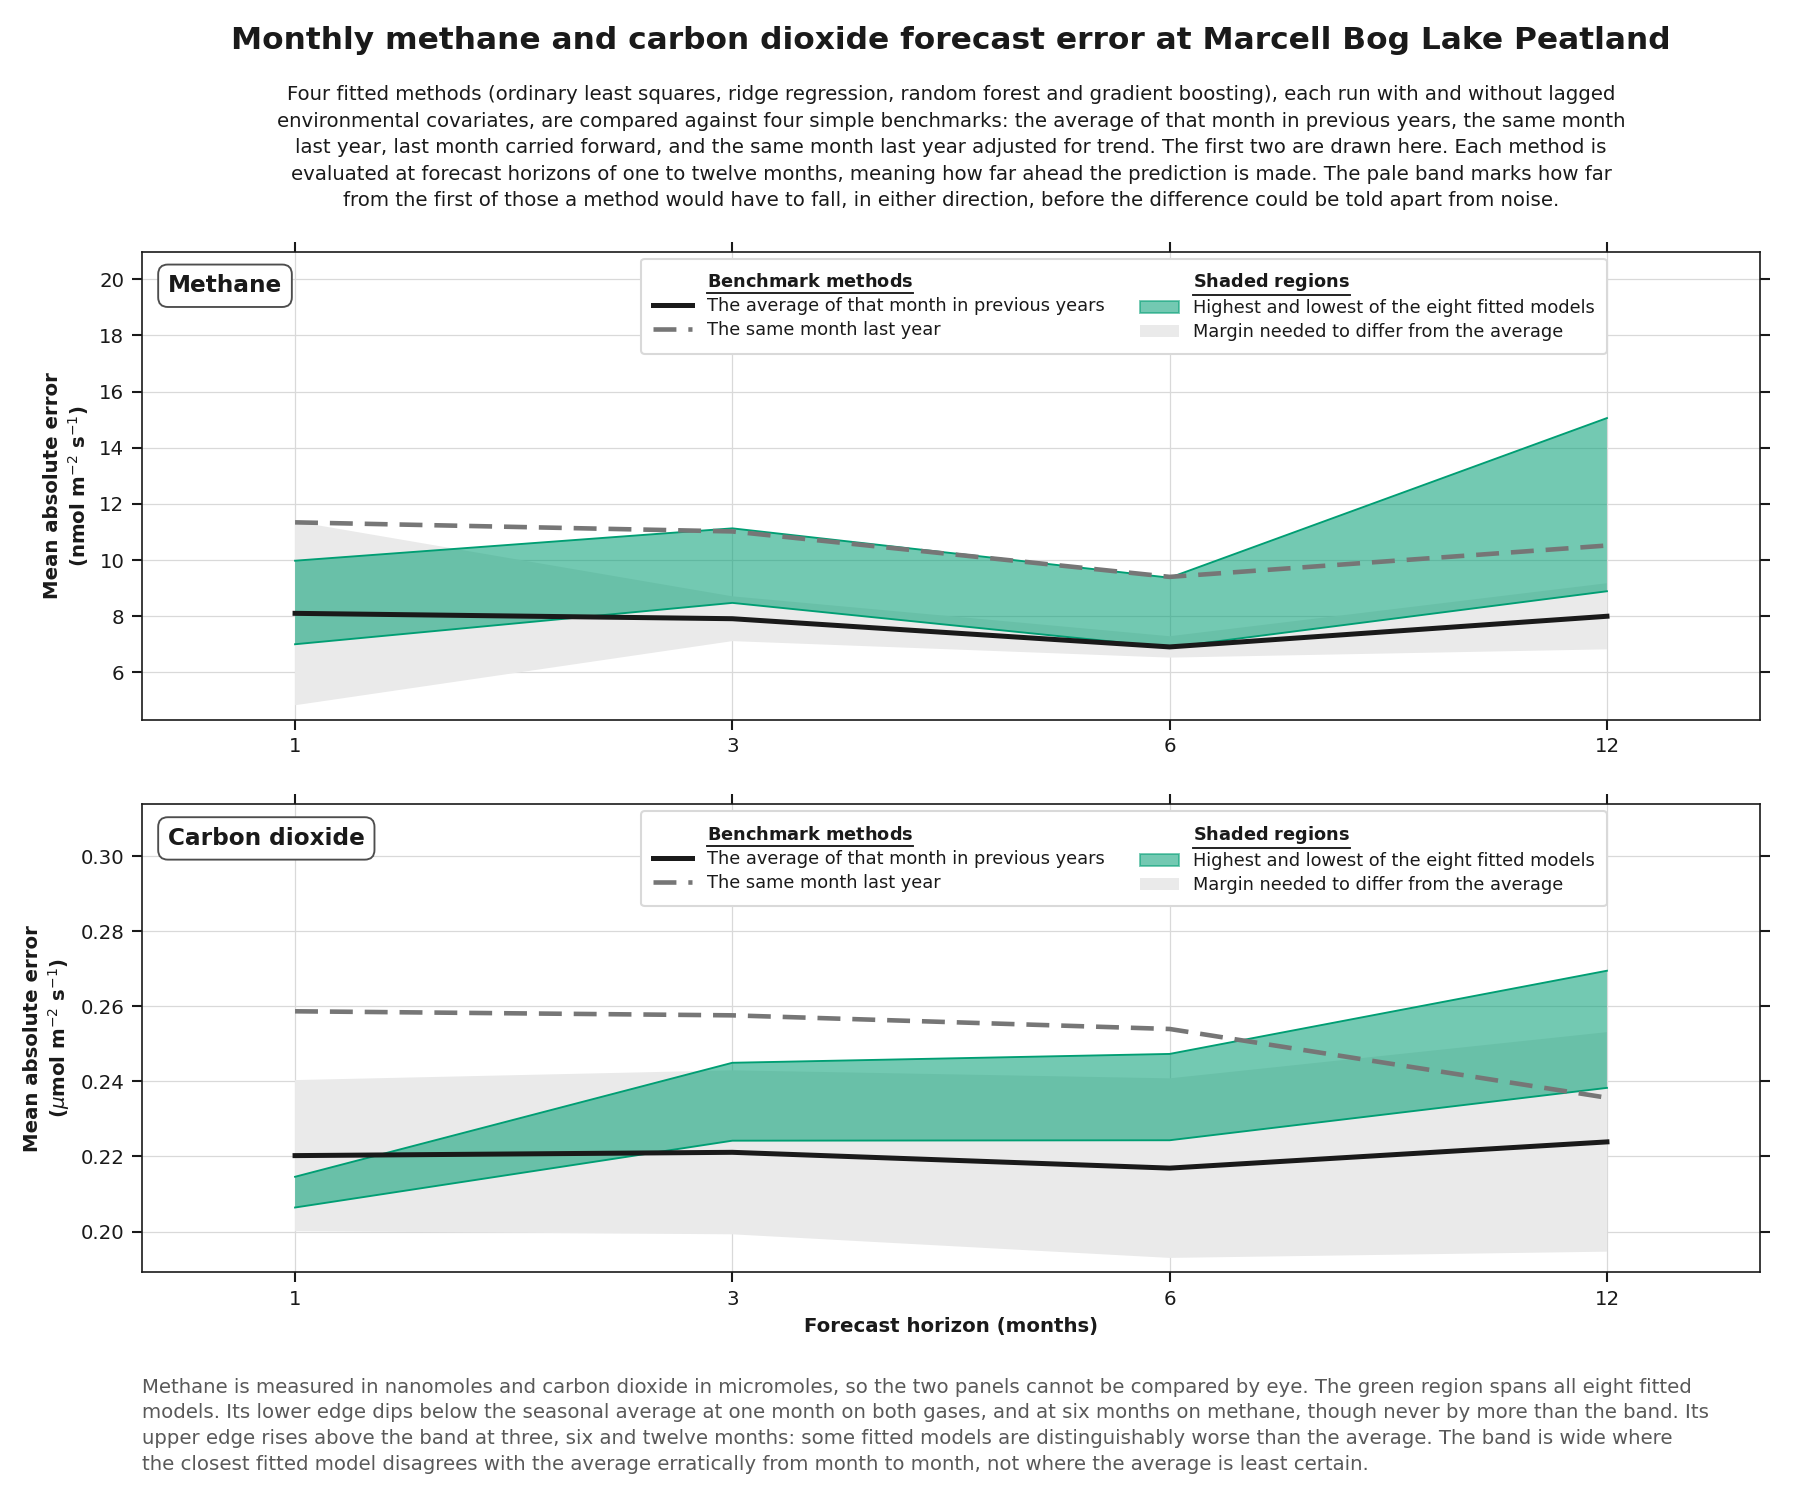
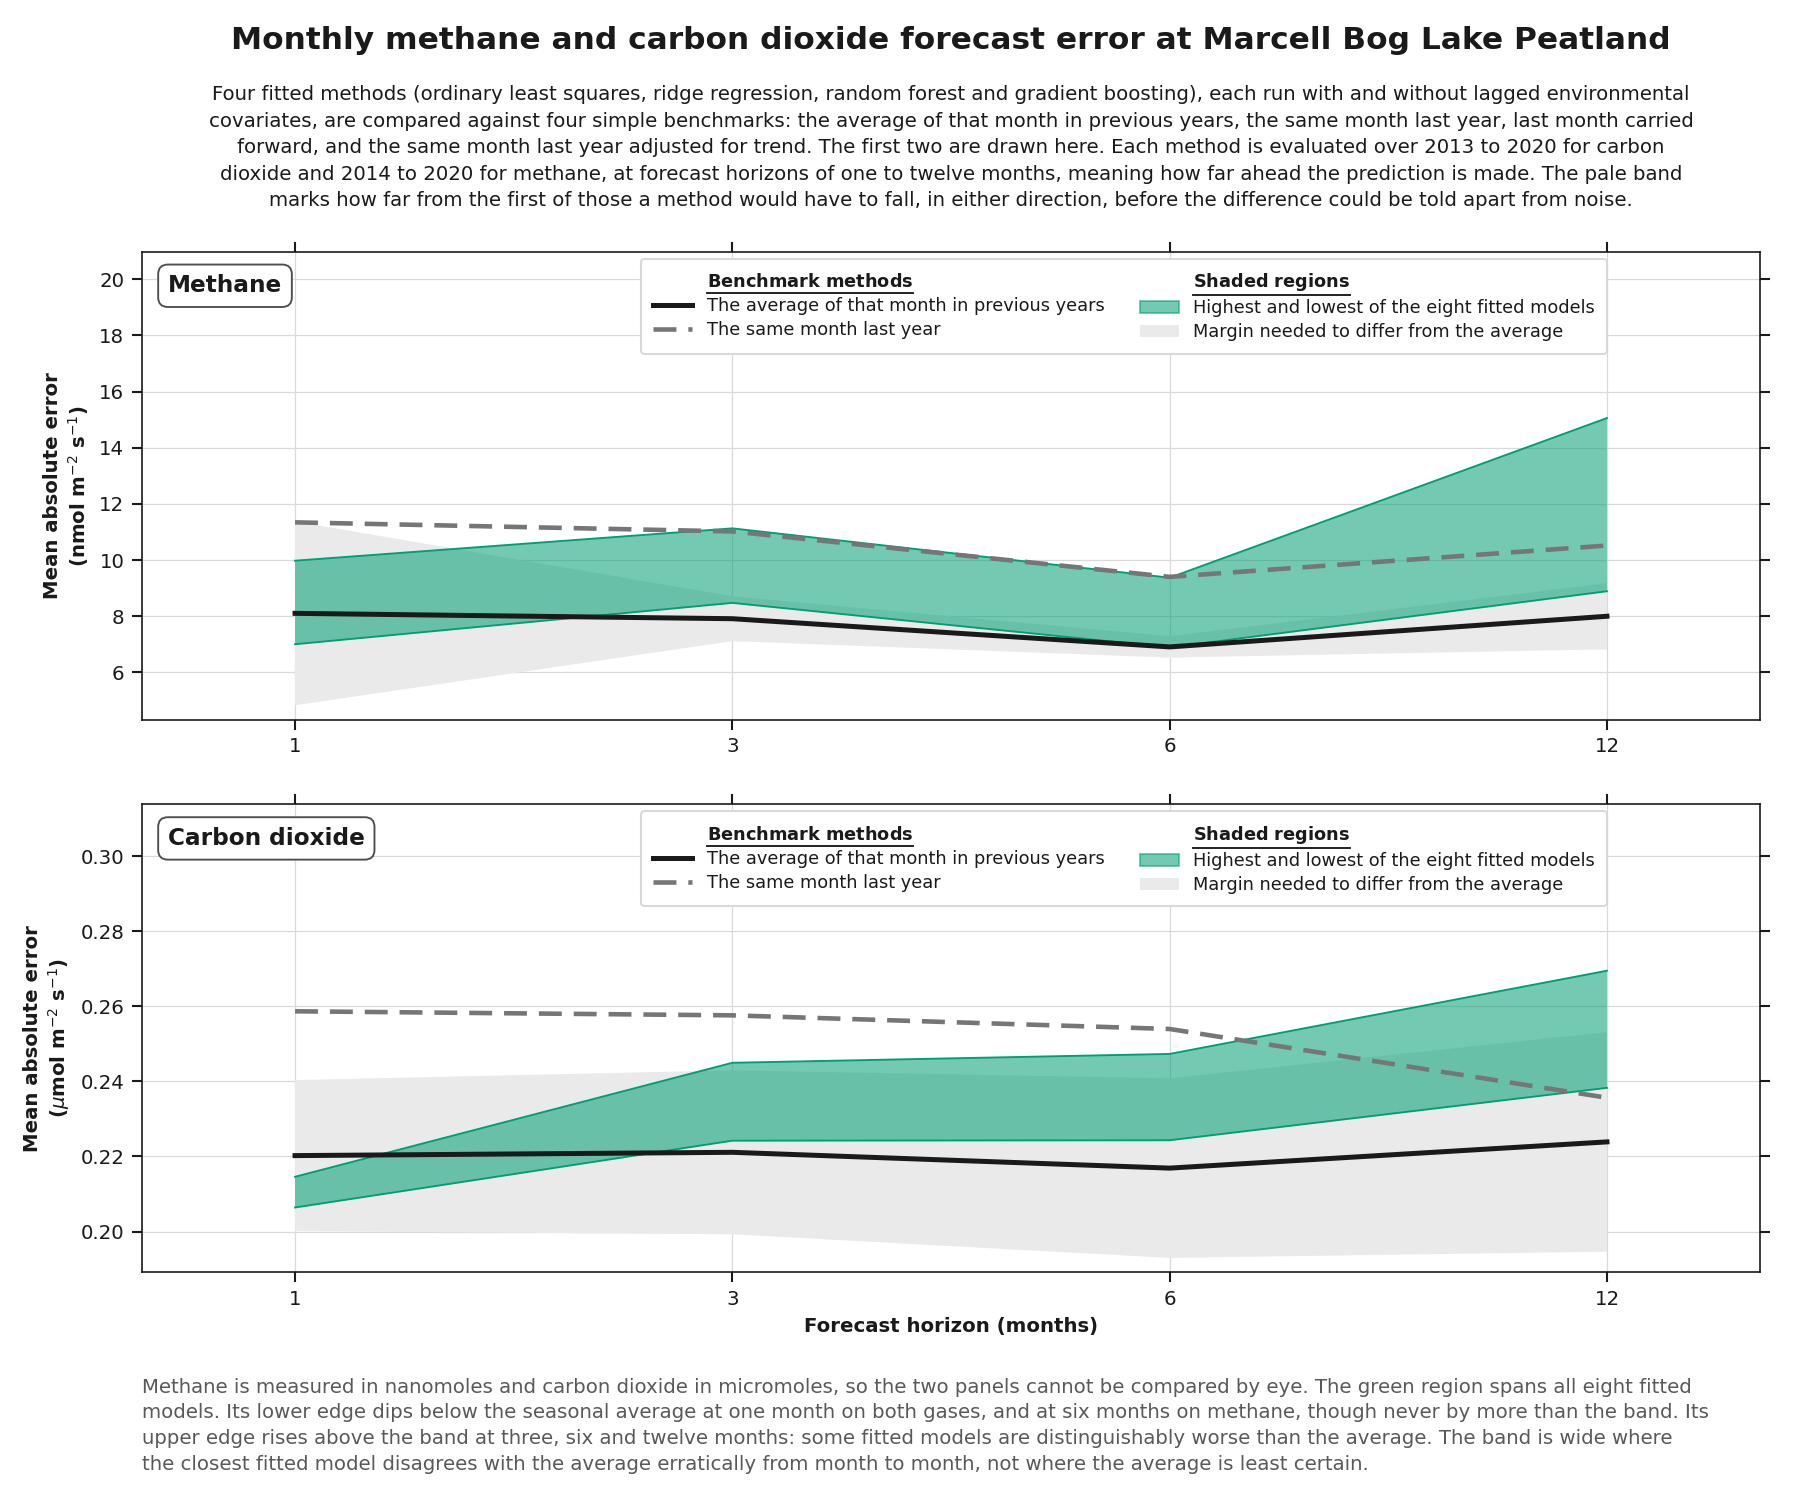
Name the evaluation period, and read series exactly when placing a key
Nothing on the forecast figure said which months the errors were measured over.
The shared target set differs by gas: carbon dioxide runs 2013-01 to 2020-12 at
every horizon, methane 2014-06 to 2020-12, so the subtitle names both rather
than giving the union and overstating the methane panel. This is not the
prediction error figure's window. That one evaluates a single horizon and stops
at 2019; pooling four horizons reaches back to 2014-06 on methane and forward to
2020-12, since twelve-month targets land later.

No period in the title, because the x axis is forecast horizon rather than time
and a reader would look for those years on the panel and not find them.

_raise_top_until_furniture_clears grew a panel until its key cleared the series
beneath it, reading ax.lines at their plotted x values. Between two vertices a
line is straight, so a series climbing steeply past the key's right edge was
invisible: on this figure methane's envelope runs 9.37 to 15.06 between two
positions, and a key edge at 2.9 saw 11.13 where the series reaches 14.49.

_highest_between is exact rather than sampled. The maximum of a piecewise-linear
series over an interval is at a vertex inside it or at one of the two edges, so
reading the interior vertices and interpolating both edges is the whole answer.
The flux figure's clearance loop uses it too.

It costs nothing on either figure that uses it. The forecast key's right edge
[…]

Changed region(s): [[0.1244, 0.0613, 0.9333, 0.1533]]

diff --git a/src/study/figures.py b/src/study/figures.py
@@ -424,9 +424,10 @@ FORECAST_TEXT = ps.FigureText(
         "environmental covariates, are compared against four simple benchmarks: "
         "the average of that month in previous years, the same month last year, "
         "last month carried forward, and the same month last year adjusted for "
-        "trend. The first two are drawn here. Each method is evaluated at "
-        "forecast horizons of one to twelve months, meaning how far ahead the "
-        "prediction is made. The pale band marks how far from the first of those "
+        "trend. The first two are drawn here. Each method is evaluated over 2013 "
+        "to 2020 for carbon dioxide and 2014 to 2020 for methane, at forecast "
+        "horizons of one to twelve months, meaning how far ahead the prediction "
+        "is made. The pale band marks how far from the first of those "
         "a method would have to fall, in either direction, before the difference "
         "could be told apart from noise."
     ),
@@ -545,6 +546,34 @@ def forecast_error_by_horizon(panels: dict[str, pd.DataFrame]) -> Figure:
 LEGEND_CLEARANCE_PX = 60
 
 
+def _highest_between(x, y, low: float, high: float) -> float:
+    """Highest a piecewise-linear series reaches over an x span, edges included.
+
+    Exact rather than sampled. Between two vertices the series is a straight
+    line, so its maximum over an interval is attained either at a vertex inside
+    the interval or at one of the two edges, and reading those is enough.
+
+    Reading only the vertices is what this replaces, and it is wrong in a way
+    that hides itself. On the forecast figure the methane envelope climbs from
+    9.37 at one horizon to 15.06 at the next, so a key whose edge falls between
+    them sees 9.37 and is placed where the series will be. That it currently
+    clears on this data is luck, not layout.
+    """
+    x = np.asarray(x, dtype=float)
+    y = np.asarray(y, dtype=float)
+    keep = ~(np.isnan(x) | np.isnan(y))
+    x, y = x[keep], y[keep]
+    if x.size == 0:
+        return -np.inf
+    order = np.argsort(x)
+    x, y = x[order], y[order]
+    reach = list(y[(x >= low) & (x <= high)])
+    for edge in (low, high):
+        if x[0] <= edge <= x[-1]:
+            reach.append(float(np.interp(edge, x, y)))
+    return max(reach) if reach else -np.inf
+
+
 def _raise_top_until_furniture_clears(ax, rounds: int = 8) -> None:
     """Grow the axis upward until the legend clears the series beneath it.
 
@@ -560,13 +589,11 @@ def _raise_top_until_furniture_clears(ax, rounds: int = 8) -> None:
 
         legend = ax.get_legend().get_window_extent()
         box = legend.transformed(ax.transData.inverted())
-        highest = -np.inf
-        for line in ax.lines:
-            x = np.asarray(line.get_xdata(), dtype=float)
-            y = np.asarray(line.get_ydata(), dtype=float)
-            under = (x >= box.x0) & (x <= box.x1)
-            if under.any():
-                highest = max(highest, float(y[under].max()))
+        highest = max(
+            (_highest_between(line.get_xdata(), line.get_ydata(), box.x0, box.x1)
+             for line in ax.lines),
+            default=-np.inf,
+        )
         share = (legend.y0 - frame.y0 - LEGEND_CLEARANCE_PX) / frame.height
         if highest > -np.inf and share > 0:
             needed = max(needed, (highest - low) / share)
@@ -856,10 +883,9 @@ def _raise_top_for_flux_legend(ax, panel: pd.DataFrame, rounds: int = 8) -> None
         frame = ax.get_window_extent()
         legend = ax.get_legend().get_window_extent()
         box = legend.transformed(ax.transData.inverted())
-        under = (positions >= box.x0) & (positions <= box.x1)
-        if not under.any():
+        highest = _highest_between(positions, ceiling, box.x0, box.x1)
+        if highest == -np.inf:
             return
-        highest = float(np.nanmax(ceiling[under]))
         share = (legend.y0 - frame.y0 - FLUX_LEGEND_CLEARANCE_PX) / frame.height
         if share <= 0:
             return

diff --git a/tests/test_forecast_figure.py b/tests/test_forecast_figure.py
@@ -286,6 +286,33 @@ def test_no_panel_repeats_what_the_description_says():
     ps.plt.close(fig)
 
 
+def test_a_series_peaking_between_plotted_points_is_not_missed():
+    """The clearance test reads the series exactly, not at its vertices.
+
+    Between two plotted horizons the series is a straight line, so its highest
+    point over an interval is at a vertex inside it or at one of the edges.
+    Reading only the vertices misses a climb that starts inside the key's span
+    and finishes outside it, which is exactly the shape of methane's envelope
+    between six and twelve months: 9.37 rising to 15.06.
+    """
+    x = np.array([0.0, 1.0, 2.0, 3.0])
+    y = np.array([9.98, 11.13, 9.37, 15.06])
+    vertices_only = float(y[(x >= 0.4) & (x <= 2.9)].max())
+    assert vertices_only == 11.13
+    assert figures._highest_between(x, y, 0.4, 2.9) > 14.0
+    # and it agrees with the naive reading wherever the edges land on vertices
+    assert figures._highest_between(x, y, 0.0, 3.0) == 15.06
+
+
+def test_the_clearance_test_survives_gaps_and_an_empty_span():
+    x = np.array([0.0, 1.0, np.nan, 3.0])
+    y = np.array([1.0, 5.0, np.nan, 2.0])
+    assert figures._highest_between(x, y, 0.0, 1.0) == 5.0
+    assert figures._highest_between(np.array([]), np.array([]), 0.0, 1.0) == -np.inf
+    # a span entirely off the left of the series reaches nothing
+    assert figures._highest_between(x, y, -5.0, -4.0) == -np.inf
+
+
 def test_the_legend_keeps_its_clearance_on_both_panels():
     tables = {key: real_panel(key) for key, _, _ in figures.GAS_PANEL}
     fig = figures.forecast_error_by_horizon(tables)

diff --git a/notes/study.md b/notes/study.md
@@ -874,6 +874,43 @@ nineteen at the same time: at five, the x axis is compressed enough that the key
 spans half the panel instead of a quarter, which is a different layout from the
 one being checked.
 
+## The clearance test read series at their vertices
+
+`_raise_top_until_furniture_clears` grows a panel until its key clears the
+series running under it. It found the highest series by reading `ax.lines` at
+their plotted x values and taking the maximum of those inside the key's span.
+
+Between two vertices a line is straight, so a series that starts low inside the
+span and climbs steeply past its right edge is invisible to that test. The
+forecast figure is the sharp case, four positions across a panel: methane's
+envelope runs 9.98, 11.13, 9.37, 15.06, and a key whose right edge falls at 2.9
+sees 11.13 where the series actually reaches 14.49, an error of 3.36 in the
+quantity the layout is deciding on.
+
+`_highest_between` replaces the vertex reading and is exact rather than sampled.
+The maximum of a piecewise-linear series over an interval is attained at a
+vertex inside it or at one of the two edges, so reading the interior vertices
+and interpolating the two edges is the whole answer.
+
+**It costs nothing on the figures that use it.** Both users were checked:
+
+| figure | vertex reading | exact | missed |
+|---|---|---|---|
+| forecast, methane | 15.0593 | 15.0593 | 0 |
+| forecast, carbon dioxide | 0.2695 | 0.2695 | 0 |
+
+The forecast key's right edge sits exactly on the last horizon, so the vertex
+there was already inside the span and the interpolated edge equals it. The flux
+figure samples monthly, so its edges fall at most one month from a vertex and
+the reading barely moves. No panel top changed and no figure was redrawn
+differently.
+
+That is the point worth recording: the defect was latent, not active. It was
+found by checking a placement by hand and would not have been found by looking
+at the output, because the output was correct by luck. A key edge landing a
+tenth of a category further left, or a data change moving where the envelope
+turns, would have put a series under a key with nothing failing.
+
 ## Which benchmarks the forecast figure draws, and why not the other two
 
 The subtitle says four benchmarks are compared and the panel draws two. A

diff --git a/figures/README_fragments.md b/figures/README_fragments.md
@@ -26,7 +26,7 @@ Each marker is one year's emission in grams of carbon per square meter, from rel
 
 ![Monthly methane and carbon dioxide forecast error at Marcell Bog Lake Peatland](figures/forecast_error_by_horizon.png)
 
-**Four fitted methods (ordinary least squares, ridge regression, random forest and gradient boosting), each run with and without lagged environmental covariates, are compared against four simple benchmarks: the average of that month in previous years, the same month last year, last month carried forward, and the same month last year adjusted for trend. The first two are drawn here. Each method is evaluated at forecast horizons of one to twelve months, meaning how far ahead the prediction is made. The pale band marks how far from the first of those a method would have to fall, in either direction, before the difference could be told apart from noise.**
+**Four fitted methods (ordinary least squares, ridge regression, random forest and gradient boosting), each run with and without lagged environmental covariates, are compared against four simple benchmarks: the average of that month in previous years, the same month last year, last month carried forward, and the same month last year adjusted for trend. The first two are drawn here. Each method is evaluated over 2013 to 2020 for carbon dioxide and 2014 to 2020 for methane, at forecast horizons of one to twelve months, meaning how far ahead the prediction is made. The pale band marks how far from the first of those a method would have to fall, in either direction, before the difference could be told apart from noise.**
 
 Methane is measured in nanomoles and carbon dioxide in micromoles, so the two panels cannot be compared by eye. The green region spans all eight fitted models. Its lower edge dips below the seasonal average at one month on both gases, and at six months on methane, though never by more than the band. Its upper edge rises above the band at three, six and twelve months: some fitted models are distinguishably worse than the average. The band is wide where the closest fitted model disagrees with the average erratically from month to month, not where the average is least certain.
 
